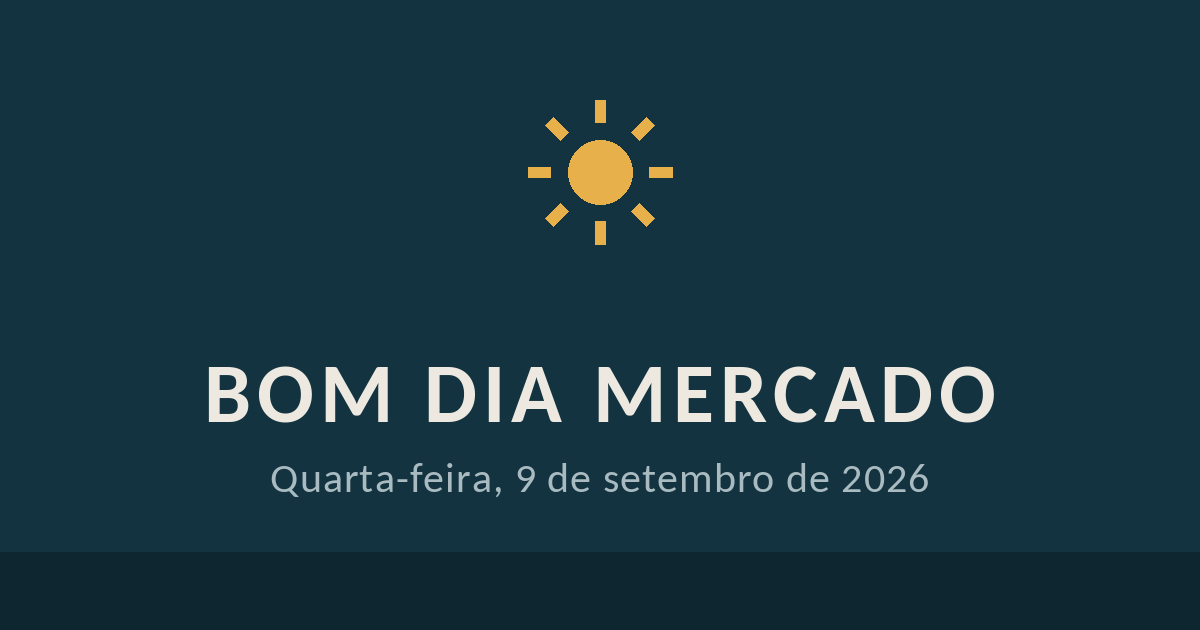
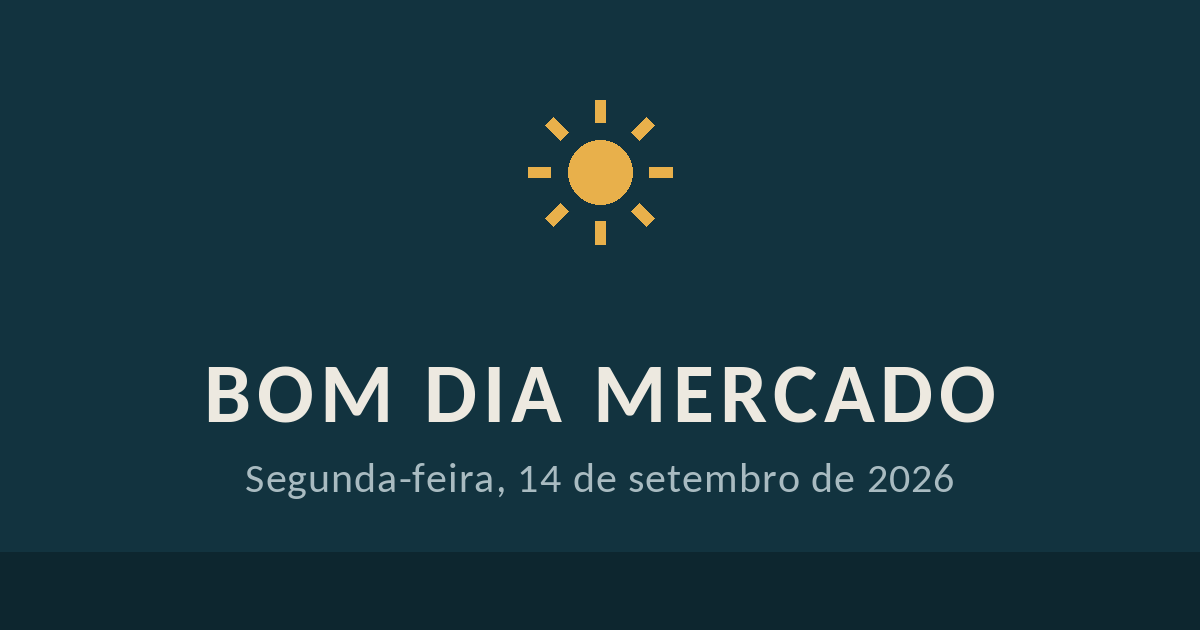
Add files via upload

Changed region(s): [[0.185, 0.7238, 0.8017, 0.7841]]

diff --git a/index.html b/index.html
@@ -3,13 +3,13 @@
 <head>
 <meta charset="utf-8">
 <meta name="viewport" content="width=device-width, initial-scale=1">
-<title>Bom Dia Mercado — 9 de setembro de 2026</title>
-<meta name="description" content="Juro longo abaixo de 14%, dólar sob R$ 5,10 e Ibovespa perto dos 190 mil, com o trade eleitoral descolado da pressão externa.">
+<title>Bom Dia Mercado — 14 de setembro de 2026</title>
+<meta name="description" content="Semana de Superquarta: o Fed deve subir o juro e o Copom cortar a Selic para 13,75%, com o Brent acima de US$ 108 e o STF julgando na terça.">
 <meta property="og:type" content="article">
 <meta property="og:site_name" content="Bom Dia Mercado">
-<meta property="og:title" content="Bom Dia Mercado — 9 de setembro de 2026">
-<meta property="og:description" content="Juro longo furou os 14%, dólar sob R$ 5,10 e Ibovespa perto dos 190 mil, com o petróleo encostando em US$ 100.">
-<meta property="og:url" content="https://mauriciopiragibe.github.io/Bom-Dia-Mercado/">
+<meta property="og:title" content="Bom Dia Mercado — 14 de setembro de 2026">
+<meta property="og:description" content="Superquarta de juros e superterça no STF, com o Brent acima de US$ 108 e o Treasury de 10 anos flertando com os 5%.">
+<meta property="og:url" content="https://bomdiamercado.github.io/Bom-Dia-Mercado/">
 <meta property="og:locale" content="pt_BR">
 <meta property="og:image" content="https://bomdiamercado.github.io/Bom-Dia-Mercado/preview.png">
 <meta property="og:image:width" content="1200">
@@ -98,8 +98,6 @@
   .empresas dt{font-weight:600;font-size:.88rem;margin-top:.75rem;}
   .empresas dt:first-of-type{margin-top:0;}
   .empresas dd{margin:.05rem 0 0;font-size:.9rem;color:var(--ink-soft);line-height:1.45;}
-  footer{padding:1.6rem 1.35rem 2.4rem;font-size:.8rem;color:var(--ink-soft);line-height:1.5;}
-  footer p{margin:0 0 .4rem;}
   @media (min-width:34rem){
     body{font-size:17px;}
     h1{font-size:2.05rem;}
@@ -123,29 +121,28 @@
       <path d="M24 4.5v5M24 38.5v5M4.5 24h5M38.5 24h5M10.2 10.2l3.5 3.5M34.3 34.3l3.5 3.5M37.8 10.2l-3.5 3.5M13.7 34.3l-3.5 3.5"/>
     </svg>
   </div>
-  <p class="date">Quarta-feira, 9 de setembro de 2026</p>
-  <h1>O juro longo furou os 14% com o petróleo a caminho dos US$ 100</h1>
-  <p class="standfirst">A guerra escalou de novo à noite, com cinco petroleiros iranianos destruídos por forças americanas e o Brent encostando em US$ 99. O trade eleitoral ignorou tudo.</p>
+  <p class="date">Segunda-feira, 14 de setembro de 2026</p>
+  <h1>Semana de Superquarta de juros e superterça no STF</h1>
+  <p class="standfirst">O Brent voltou a disparar no domingo, acima de US$ 108, depois do adiamento das negociações sobre Ormuz. O Fed deve subir o juro na quarta, o Copom deve cortar a Selic, e na terça o Supremo decide sobre as mensagens entre Moraes e Vorcaro.</p>
 </header>
 
 <div class="strip">
   <dl class="quotes">
-    <div class="q"><dt>Brent</dt><dd>97,92</dd><span class="chg up">+0,95%</span></div>
-    <div class="q"><dt>Ibovespa</dt><dd>187.367</dd><span class="chg up">+1,20%</span></div>
-    <div class="q"><dt>Dólar</dt><dd>5,0858</dd><span class="chg down">−0,88%</span></div>
-    <div class="q"><dt>DI jan/31</dt><dd>13,905%</dd><span class="chg down">−19 pb</span></div>
+    <div class="q"><dt>Brent</dt><dd>108,3</dd><span class="chg up">+3,1%</span></div>
+    <div class="q"><dt>Treasury 10 anos</dt><dd>4,974%</dd><span class="chg up">+2 pb</span></div>
+    <div class="q"><dt>Ibovespa</dt><dd>187.207</dd><span class="chg down">−0,56%</span></div>
+    <div class="q"><dt>Dólar</dt><dd>5,1254</dd><span class="chg up">+0,44%</span></div>
   </dl>
 </div>
 
 <div class="hoje">
   <h2>AGENDA DE HOJE</h2>
   <ol class="agenda">
-    <li><span class="bandeira" role="img" aria-label="Brasil">🇧🇷</span><span class="hora">8h00</span><span class="ev">IPC-S Capitais, primeira leitura de setembro<small>FGV</small></span></li>
-    <li><span class="bandeira" role="img" aria-label="Zona do euro">🇪🇺</span><span class="hora">14h00</span><span class="ev">Lagarde, em jantar do Bundesbank<small>Único destaque relevante lá fora</small></span></li>
-    <li><span class="bandeira" role="img" aria-label="Estados Unidos">🇺🇸</span><span class="hora">14h00</span><span class="ev">Evento anual da Apple, em Nova York<small>Novos iPhones, com expectativa de um modelo dobrável</small></span></li>
-    <li><span class="bandeira" role="img" aria-label="Brasil">🇧🇷</span><span class="hora">14h30</span><span class="ev">IC-Br de agosto e fluxo cambial semanal<small>Banco Central</small></span></li>
+    <li><span class="bandeira" role="img" aria-label="Brasil">🇧🇷</span><span class="hora">8h25</span><span class="ev">Relatório Focus<small>Banco Central</small></span></li>
+    <li><span class="bandeira" role="img" aria-label="Estados Unidos">🇺🇸</span><span class="hora">no dia</span><span class="ev">Bessent anuncia sanções a um "grande banco"<small>Não identificado, por relações com o Irã</small></span></li>
+    <li><span class="bandeira" role="img" aria-label="China">🇨🇳</span><span class="hora">23h00</span><span class="ev">Produção industrial, varejo e investimentos<small>Dados de agosto</small></span></li>
   </ol>
-  <p class="nota">Na China, o CPI de agosto subiu 0,8% na comparação anual, em linha com o esperado, e o PPI avançou 3,8%, acima da projeção de 3,2%.</p>
+  <p class="nota">Na semana: Fed e Copom na quarta, BoE e BoJ na quinta. Varejo de julho no Brasil amanhã e IBC-Br na quarta.</p>
 </div>
 
 <main>
@@ -153,44 +150,42 @@
 <section class="pad">
   <div class="h-rule"></div>
   <h2>JUROS</h2>
-  <p>O DI para janeiro de 2031 caiu quase 20 pontos-base e furou os 14%, a <span class="num">13,905%</span>; o de 2033 foi a <span class="num">14,015%</span>, enquanto o de 2027 ficou parado, em <span class="num">13,575%</span>. O gatilho foi eleitoral, não macro: a curva tira prêmio de 2027 em diante. O BofA cortou a Selic de 2027 de 12,75% para <span class="num">11,25%</span>, contra 12% no Focus. Lá fora o movimento foi o oposto — a Note de 10 anos subiu a <span class="num">4,792%</span>, e o Fed do dia 16 volta a ser aposta de alta.</p>
+  <p>A Superquarta separa os dois bancos centrais: o mercado futuro já dá quase <strong>90% de chance</strong> de o Fed subir 25 pontos-base, para <span class="num">3,75%–4,00%</span>, enquanto 75 das 78 instituições ouvidas pelo Projeções Broadcast esperam corte da Selic para <span class="num">13,75%</span>. O que interessa é a sinalização: a Pantheon vê a alta americana como isolada, a Capital Economics projeta 75 pontos de aperto até dezembro, e o Goldman duvida que o Copom se comprometa com novo corte em novembro, citando serviços resistentes e expectativas de 2027 fora da meta. Já Bradesco Asset e Ativa foram na direção oposta, cortando projeções para <span class="num">13,25%</span> neste ano e <span class="num">10,5%</span> em 2027. Na sexta a curva virou com a crise no STF — Jan/31 a <span class="num">14,040%</span> e Jan/33 a <span class="num">14,155%</span>, com queda só na ponta curta —, e nos Estados Unidos a Note de 10 anos foi a <span class="num">4,974%</span> e a de 2 anos a <span class="num">4,627%</span>.</p>
 </section>
 
 <section class="pad">
   <div class="h-rule"></div>
   <h2>DÓLAR</h2>
-  <p>Fechou a <span class="num">R$ 5,0858</span>, queda de <span class="num">0,88%</span>, após tocar R$ 5,0712 na mínima. O real foi a segunda moeda mais forte entre as 33 mais líquidas, atrás só do peso chileno. O DXY caiu <span class="num">0,39%</span>, a 98,787. Depois do fechamento, o BC anunciou um "casadão" para quinta, de até US$ 1 bilhão, após o dólar casado rodar acima de 1,5% — nível considerado de estresse.</p>
+  <p>Subiu <span class="num">0,44%</span> na sexta, a <span class="num">R$ 5,1254</span>, com a percepção de risco eleitoral vinda do Supremo. O pano de fundo da semana é o encolhimento do diferencial de juros: o Fed sobe, o Copom corta, e o carry trade perde atratividade. O IIF lembra que a conta piora com o BoJ apertando — as entradas líquidas em emergentes já caíram de <span class="num">US$ 24,9 bilhões</span> em julho para <span class="num">US$ 11,3 bilhões</span> em agosto. Lá fora, o DXY ficou estável em 99,122, o iene a <span class="num">153,73</span>, o euro a US$ 1,1598 e a libra a US$ 1,3528.</p>
 </section>
 
 <section class="pad">
   <div class="h-rule"></div>
   <h2>BOLSA</h2>
-  <p>O Ibovespa subiu <span class="num">1,20%</span>, aos <span class="num">187.366,84</span> pontos, com giro de <span class="num">R$ 21,2 bilhões</span> e máxima em 189.488. Petrobras ON <span class="num">+2,36%</span> e PN <span class="num">+2,08%</span>, na esteira do petróleo; Vale <span class="num">+0,51%</span> e bancos quase todos no azul. O movimento é doméstico: o EWZ acumula quase <span class="num">9%</span> no mês, contra <span class="num">2,3%</span> do EEM. O BofA elevou o Brasil de marketweight para overweight.</p>
+  <p>O Ibovespa caiu <span class="num">0,56%</span>, aos <span class="num">187.206,89</span> pontos, com giro fraco de <span class="num">R$ 17,3 bilhões</span> — a primeira correção depois de quase duas semanas de euforia eleitoral. O Banco do Brasil destoou do setor e recuou <span class="num">1,36%</span>, enquanto Santander unit subiu <span class="num">2,34%</span> e Itaú PN, <span class="num">0,9%</span>. As commodities resistiram melhor que seus preços: Petrobras PN cedeu <span class="num">0,24%</span> e a Vale fechou de lado, apesar das quedas de petróleo e minério na sexta. Em Nova York o pregão foi positivo — Dow <span class="num">+0,98%</span>, S&amp;P 500 <span class="num">+0,86%</span> e Nasdaq <span class="num">+0,96%</span> —, mas os futuros caíam no domingo, com o petróleo e o debate sobre frear a inteligência artificial.</p>
 </section>
 
 <section class="pad">
   <div class="h-rule"></div>
   <h2>ELEIÇÕES</h2>
-  <p>A Quaest mostrou <strong>Lula e Flávio empatados em 41%</strong> no segundo turno; a BTG/Nexus apontou 46% a 45% para o senador. Nas estaduais da Quaest, Flávio lidera em São Paulo (41% a 33%), no Rio (43% a 37%) e em Minas (40% a 37%), com Pernambuco como exceção, onde Lula tem 57% a 26%. A crise no STF virou combustível da campanha, depois que Mendonça afastou a cúpula da PF e Fachin deu 72 horas para ele se manifestar. AtlasIntel divulga nova pesquisa amanhã; Datafolha e Veritá, na sexta.</p>
+  <p>O Datafolha divulgado após o fechamento mostrou <strong>Flávio subindo de 33% para 35%</strong> no primeiro turno e encostando em Lula, que foi de 38% para 39% — empate técnico no limite da margem. No segundo turno o quadro ficou estável, com Lula em 46% e Flávio em 44%. O teste de verdade é amanhã: às 10h o STF faz sessão extraordinária, aberta e transmitida ao vivo, para decidir se investiga ou arquiva as mensagens entre Moraes e Vorcaro, com repercussão possível durante o próprio pregão. No fim de semana, Flávio Dino tirou o sigilo de cerca de 5 mil páginas da investigação sobre o financiamento do filme "Dark Horse", apontando hipótese de desvio envolvendo emendas parlamentares e a Prefeitura de São Paulo.</p>
 </section>
 
 <section class="pad">
   <div class="h-rule"></div>
   <h2>PETRÓLEO</h2>
-  <p>O Brent fechou a <span class="num">US$ 97,92</span> (+0,95%) e o WTI a <span class="num">US$ 93,03</span> (+1,69%), depois de superar os US$ 99 durante o pregão; no eletrônico, já avançava a <span class="num">US$ 99,32</span>. A escalada veio da destruição de cinco petroleiros iranianos por forças americanas perto de Kharg — por onde passam cerca de 90% das exportações de bruto do Irã — e da resposta de Teerã contra uma base dos EUA na Jordânia, somadas à ordem de evacuar petroleiros no Kuwait e no Bahrein. Ataques dos Houthis a instalações de energia sauditas, entre elas uma refinaria da Aramco em Jizan, deixaram mais de 70 feridos. O BofA vê o Brent entre <span class="num">US$ 95</span> e <span class="num">US$ 120</span> se os conflitos durarem até o fim do ano, e o Goldman admite US$ 120 caso a produção do Golfo siga 4 milhões de barris/dia abaixo do normal.</p>
+  <p>O Brent subia mais de <span class="num">3%</span> na abertura de domingo, acima de <span class="num">US$ 108</span>, e o WTI ia a <span class="num">US$ 103</span>, devolvendo quase toda a queda de sexta. O estopim foi o adiamento, sem nova data, da reunião entre Irã e países do Golfo que trataria da navegação em Ormuz — Omã disse que a decisão se deu no interesse do consenso. O fim de semana teve nova embarcação atingida em Ormuz, ataque a um navio comercial iraniano perto de Qeshm e o fechamento preventivo do oleoduto Leste-Oeste saudita após ataques de drones vindos do Iraque. A rota alternativa também piorou: os houthis tomaram a ilha de Mayun, em Bab el-Mandeb, por onde passa cerca de <span class="num">12%</span> do comércio mundial.</p>
 </section>
 
-<div class="empresas">
+<section class="pad">
+  <div class="h-rule"></div>
   <h2>PETROBRAS</h2>
-  <p class="nota" style="margin-top:0">Nenhuma notícia relevante.</p>
-</div>
+  <p>Recebeu mais <span class="num">R$ 2,6 bilhões</span> em subvenções à comercialização de diesel. Com isso, os repasses acumulados dos programas para combustíveis chegam a <span class="num">R$ 9,5 bilhões</span>.</p>
+</section>
 
 </main>
 
-<footer>
-  <p>Fonte: Agência Estado/Broadcast</p>
-  <p>Preços e taxas referem-se ao fechamento de terça-feira, 8 de setembro.</p>
-</footer>
+<div style="height:2rem"></div>
 
 </div>
 </body>
